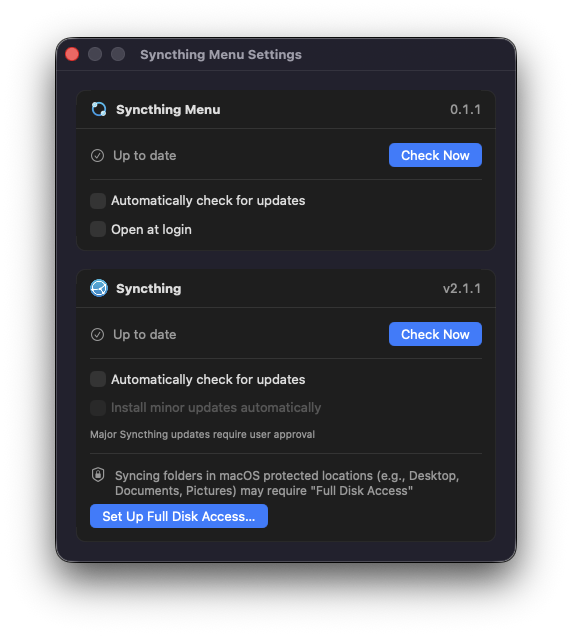
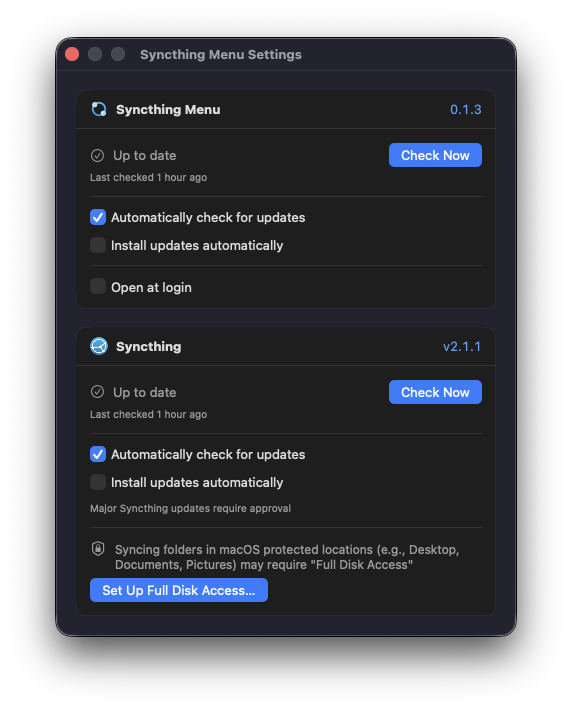
Update the Settings screenshot and Updates section for 0.1.3

diff --git a/README.md b/README.md
@@ -96,14 +96,18 @@ won't help.
 
 ## Updates
 
-Two independent update channels, each surfaced in Settings:
+Two independent update channels, surfaced as matching cards in Settings:
 
 - **Syncthing (the daemon):** auto-check is on by default. Automatic install of
   *minor* updates is off by default (you can turn it on); *major* updates always
   ask first. After an update is applied, the app restarts the daemon so it comes
   back up cleanly.
 - **Syncthing Menu (the app):** delivered through Sparkle; auto-check is on by
-  default.
+  default. Automatic install is off by default — with it on, updates download in
+  the background and install silently, no dialogs.
+
+Every version shown is a link to its release notes, and each card notes when it
+last checked.
 
 <p align="center">
   <img src="docs/settings.png" alt="The Syncthing Menu Settings window" width="440">